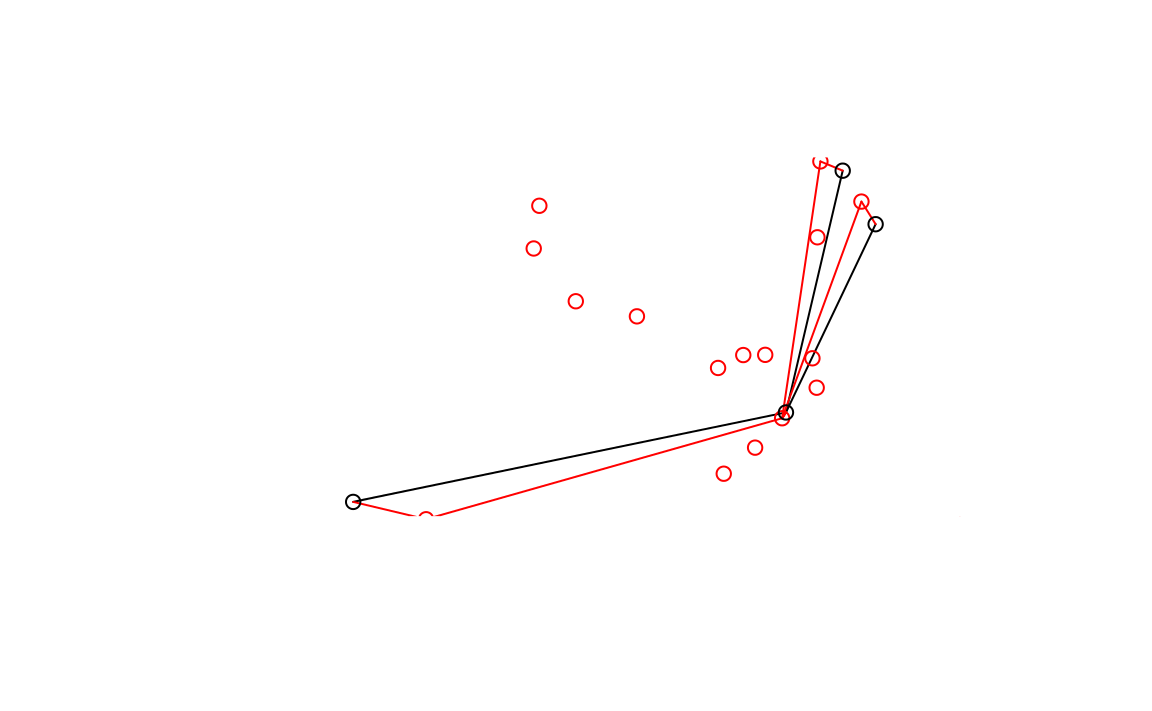
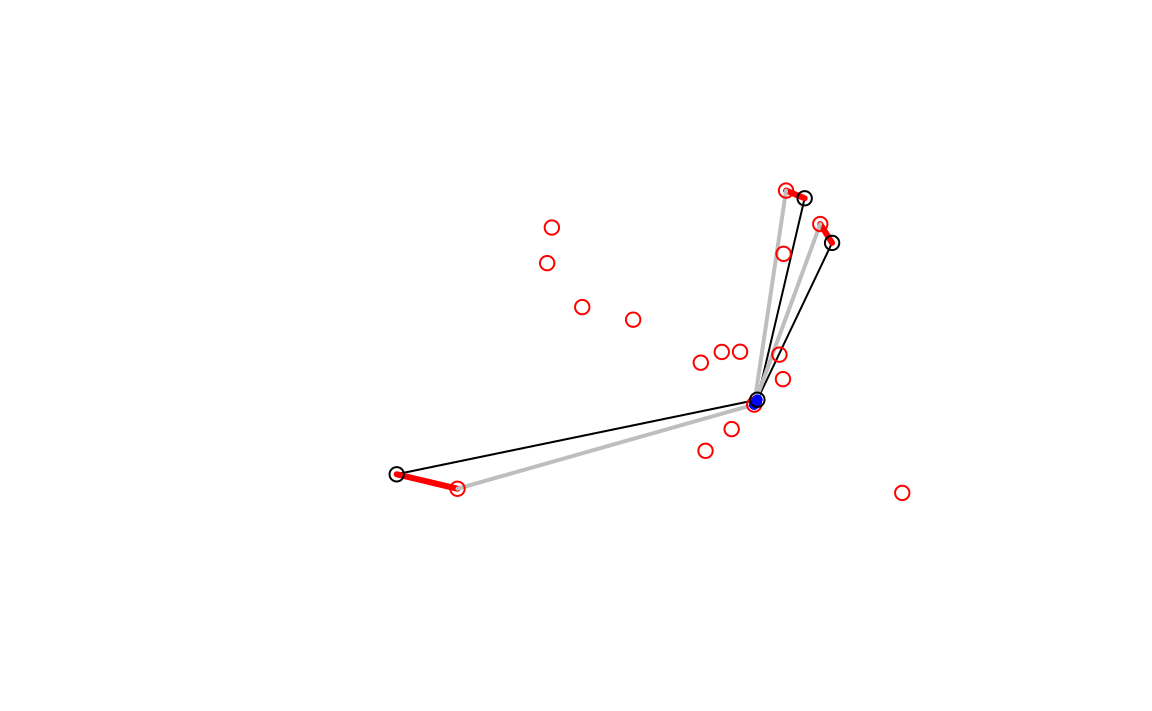
Updating book (2184)

diff --git a/transport.html b/transport.html
@@ -522,37 +522,36 @@ Figure 8.4: Routes along which many (300+) short (&lt;5km Euclidean distance) ca
 <p>Building on the analysis conducted in section <a href="transport.html#desire-lines">8.4</a>, public transport nodes can be used to construct three-part desire lines for trips that can be taken by bus and (the mode used in this example) rail. The first stage is to identify the desire lines with most public transport travel, which in this case can be directly because number of trips by train is a variable in the desire lines (the public transport potential could also be estimated using public transport routing services such as <a href="http://www.opentripplanner.org/">OpenTripPlanner</a>). For clarity of method we’ll select just the top three desire lines in terms of rails use:</p>
 <div class="sourceCode"><pre class="sourceCode r"><code class="sourceCode r">desire_rail =<span class="st"> </span><span class="kw">top_n</span>(desire_lines, <span class="dt">n =</span> <span class="dv">3</span>, <span class="dt">wt =</span> train)</code></pre></div>
 <p>The challenge now is to ‘break-up’ each of these lines into three pieces, representing travel via public transport nodes. This can be done by converting multiline objects in which each feature contains 3 line geometries representing origin, public transport and destination legs of the trip. The first stage is to create matrices of coordinates that will subsequently be used to create matrices representing each leg:</p>
-<div class="sourceCode"><pre class="sourceCode r"><code class="sourceCode r">orig_matrix =<span class="st"> </span><span class="kw">as.matrix</span>(<span class="kw">line2df</span>(desire_rail)[<span class="kw">c</span>(<span class="st">&quot;fx&quot;</span>, <span class="st">&quot;fy&quot;</span>)])
-dest_matrix =<span class="st"> </span><span class="kw">as.matrix</span>(<span class="kw">line2df</span>(desire_rail)[<span class="kw">c</span>(<span class="st">&quot;tx&quot;</span>, <span class="st">&quot;ty&quot;</span>)])
-rail_matrix =<span class="st"> </span><span class="kw">st_coordinates</span>(rail_stations)</code></pre></div>
+<div class="sourceCode"><pre class="sourceCode r"><code class="sourceCode r">mat_orig =<span class="st"> </span><span class="kw">as.matrix</span>(<span class="kw">line2df</span>(desire_rail)[<span class="kw">c</span>(<span class="st">&quot;fx&quot;</span>, <span class="st">&quot;fy&quot;</span>)])
+mat_dest =<span class="st"> </span><span class="kw">as.matrix</span>(<span class="kw">line2df</span>(desire_rail)[<span class="kw">c</span>(<span class="st">&quot;tx&quot;</span>, <span class="st">&quot;ty&quot;</span>)])
+mat_rail =<span class="st"> </span><span class="kw">st_coordinates</span>(rail_stations)</code></pre></div>
 <p>The outputs are three matrices representing the starting points of the trips, their destinations and possible intermediary points at public transport nodes (named <code>orig</code>, <code>dest</code> and <code>rail</code> respectively). But how to identify <em>which</em> intermediary points to use for each desire line? The <code>knn()</code> function from the <strong>nabor</strong> package (which is used internally by <strong>stplanr</strong> so it should already be installed) solves this problem by finding <em>k nearest neighbors</em> between two sets of coordinates. The function can find any number of nearest neighbors by setting the <code>k</code> parameter, in this case to one:</p>
-<div class="sourceCode"><pre class="sourceCode r"><code class="sourceCode r">knn_orig =<span class="st"> </span>nabor::<span class="kw">knn</span>(rail_matrix, <span class="dt">query =</span> orig_matrix, <span class="dt">k =</span> <span class="dv">1</span>)$nn.idx
-knn_dest =<span class="st"> </span>nabor::<span class="kw">knn</span>(rail_matrix, <span class="dt">query =</span> dest_matrix, <span class="dt">k =</span> <span class="dv">1</span>)$nn.idx</code></pre></div>
-<p>This results not in matrices of coordinates, but row indices that can subsequently be used to subset the <code>rail_matrix</code>. It is worth taking a look at the results to ensure that the process has worked properly and explain what has happened:</p>
+<div class="sourceCode"><pre class="sourceCode r"><code class="sourceCode r">knn_orig =<span class="st"> </span>nabor::<span class="kw">knn</span>(mat_rail, <span class="dt">query =</span> mat_orig, <span class="dt">k =</span> <span class="dv">1</span>)$nn.idx
+knn_dest =<span class="st"> </span>nabor::<span class="kw">knn</span>(mat_rail, <span class="dt">query =</span> mat_dest, <span class="dt">k =</span> <span class="dv">1</span>)$nn.idx</code></pre></div>
+<p>This results not in matrices of coordinates, but row indices that can subsequently be used to subset the <code>mat_rail</code>. It is worth taking a look at the results to ensure that the process has worked properly and explain what has happened:</p>
 <div class="sourceCode"><pre class="sourceCode r"><code class="sourceCode r"><span class="kw">as.numeric</span>(knn_orig)
 <span class="co">#&gt; [1] 28  3  2</span>
 <span class="kw">as.numeric</span>(knn_dest)
 <span class="co">#&gt; [1] 30 30 30</span></code></pre></div>
-<p>The output demonstrates that each object contains three whole numbers (the number of rows in <code>desire_rail</code>) representing the rail station closest to the origin and destination of each desire line. Note that while each ‘origin station’ is different, the destination (station <code>30</code>) is the same for all desire lines. This is to be expected because rail travel in cities tends to converge on a single large station (in this case Bristol Temple Meads). The indices can now be used to create matrices representing each leg of the journey as follows:</p>
-<div class="sourceCode"><pre class="sourceCode r"><code class="sourceCode r">leg_orig =<span class="st"> </span><span class="kw">cbind</span>(orig_matrix, rail_matrix[knn_orig, ])
-leg_rail =<span class="st"> </span><span class="kw">cbind</span>(rail_matrix[knn_orig, ], rail_matrix[knn_dest, ])
-leg_dest =<span class="st"> </span><span class="kw">cbind</span>(dest_matrix, rail_matrix[knn_dest, ])</code></pre></div>
+<p>The output demonstrates that each object contains three whole numbers (the number of rows in <code>desire_rail</code>) representing the rail station closest to the origin and destination of each desire line. Note that while each ‘origin station’ is different, the destination (station <code>30</code>) is the same for all desire lines. This is to be expected because rail travel in cities tends to converge on a single large station (in this case Bristol Temple Meads). The indices can now be used to create matrices representing the rail station of origin and destination:</p>
+<div class="sourceCode"><pre class="sourceCode r"><code class="sourceCode r">mat_rail_o =<span class="st"> </span>mat_rail[knn_orig, ]
+mat_rail_d =<span class="st"> </span>mat_rail[knn_dest, ]</code></pre></div>
 <p>The final stage is to convert these matrices into meaningful geographic objects, in this case ‘multilinestrings’ that capture the fact that each stage is a separate line, but part of the same overall trip which can be represented as a simple feature:</p>
 <!-- Would the subsequent code chunck be better as `lapply()` or `map()` command? -->
-<div class="sourceCode"><pre class="sourceCode r"><code class="sourceCode r">multi =<span class="st"> </span><span class="kw">vector</span>(<span class="dt">mode =</span> <span class="st">&quot;list&quot;</span>, <span class="dt">length =</span> <span class="kw">nrow</span>(desire_rail))
-for(i in <span class="dv">1</span>:<span class="kw">nrow</span>(desire_rail)) {
-  multi[[i]] =<span class="st"> </span><span class="kw">st_multilinestring</span>(<span class="kw">list</span>(
-    <span class="kw">rbind</span>(leg_orig[i, <span class="dv">1</span>:<span class="dv">2</span>], leg_orig[i, <span class="dv">3</span>:<span class="dv">4</span>]), 
-    <span class="kw">rbind</span>(leg_rail[i, <span class="dv">1</span>:<span class="dv">2</span>], leg_rail[i, <span class="dv">3</span>:<span class="dv">4</span>]), 
-    <span class="kw">rbind</span>(leg_dest[i, <span class="dv">1</span>:<span class="dv">2</span>], leg_dest[i, <span class="dv">3</span>:<span class="dv">4</span>]) 
-    ))
+<div class="sourceCode"><pre class="sourceCode r"><code class="sourceCode r">mats2line =<span class="st"> </span>function(mat1, mat2) {
+  <span class="kw">lapply</span>(<span class="dv">1</span>:<span class="kw">nrow</span>(mat1), function(i) {
+    <span class="kw">rbind</span>(mat1[i, ], mat2[i, ]) %&gt;%
+<span class="st">    </span><span class="kw">st_linestring</span>()
+  }) %&gt;%<span class="st"> </span><span class="kw">st_sfc</span>()
 }
-legs =<span class="st"> </span><span class="kw">st_sf</span>(<span class="dt">geometry =</span> <span class="kw">st_sfc</span>(multi), <span class="dt">crs =</span> <span class="dv">4326</span>)</code></pre></div>
-<p>Now we are in a position to visualize the results, in Figure <a href="transport.html#fig:stations">8.5</a>: the three initial <code>desire_rail</code> lines have been converted into a new simple features object <code>legs</code> representing travel from home to the origin station, from there to the destination, and finally from the destination station to the destination. In this case the destination leg is very short (walking distance) but the origin legs may be sufficiently far to justify investment in cycling infrastructure to encourage people to cycle to the stations on the outward leg of peoples’ journey to work in the residential areas surrounding the three origin stations in Figure <a href="transport.html#fig:stations">8.5</a>.</p>
+desire_rail$leg_orig =<span class="st"> </span><span class="kw">mats2line</span>(mat_orig, mat_rail_o)
+desire_rail$leg_rail =<span class="st"> </span><span class="kw">mats2line</span>(mat_rail_o, mat_rail_d)
+desire_rail$leg_dest =<span class="st"> </span><span class="kw">mats2line</span>(mat_rail_d, mat_dest)</code></pre></div>
+<p>Now we are in a position to visualize the results, in Figure <a href="transport.html#fig:stations">8.5</a>: the three initial <code>desire_rail</code> lines now have three additional geometry list-columns representing travel from home to the origin station, from there to the destination, and finally from the destination station to the destination. In this case the destination leg is very short (walking distance) but the origin legs may be sufficiently far to justify investment in cycling infrastructure to encourage people to cycle to the stations on the outward leg of peoples’ journey to work in the residential areas surrounding the three origin stations in Figure <a href="transport.html#fig:stations">8.5</a>.</p>
 <div class="figure" style="text-align: center"><span id="fig:stations"></span>
-<img src="figures/stations-1.png" alt="Station nodes (red dots) used as intermediary points that convert straight desire lines with high rail usage (black) into three legs (red)." width="576" />
+<img src="figures/stations-1.png" alt="Station nodes (red dots) used as intermediary points that convert straight desire lines with high rail usage (black) into three legs: to the origin station (red) via public transport (grey) and to the destination (a very short blue line)." width="576" />
 <p class="caption">
-Figure 8.5: Station nodes (red dots) used as intermediary points that convert straight desire lines with high rail usage (black) into three legs (red).
+Figure 8.5: Station nodes (red dots) used as intermediary points that convert straight desire lines with high rail usage (black) into three legs: to the origin station (red) via public transport (grey) and to the destination (a very short blue line).
 </p>
 </div>
 </div>

diff --git a/main.md b/main.md
@@ -256,7 +256,7 @@ leaflet() %>%
 ```
 
 <div class="figure" style="text-align: center">
-preserve34fe0ef02537d392
+preserve2f04baa0e22c799a
 <p class="caption">(\#fig:interactive)World at night imagery from NASA overlaid by the authors' approximate home locations to illustrate interactive mapping with R.</p>
 </div>
 
@@ -3129,7 +3129,7 @@ any(st_touches(cycle_hire, cycle_hire_osm, sparse = FALSE))
 
 
 <div class="figure" style="text-align: center">
-preservec35dd83a38c18ccd
+preserve6f126bd694c6831a
 <p class="caption">(\#fig:cycle-hire)The spatial distribution of cycle hire points in London based on official data (blue) and OpenStreetMap data (red).</p>
 </div>
 
@@ -6114,7 +6114,7 @@ result = sum(reclass)
 For instance, a score greater 9 might be a suitable threshold indicating raster cells where to place a bike shop (Figure \@ref(fig:bikeshop-berlin)).
 
 <div class="figure" style="text-align: center">
-preservece58b5c4d6545b34
+preserve209977025b4662a7
 <p class="caption">(\#fig:bikeshop-berlin)Suitable areas (i.e., raster cells with a score > 9) in accordance with our hypothetical survey for bike stores in Berlin.</p>
 </div>
 
@@ -6582,9 +6582,9 @@ The first stage is to create matrices of coordinates that will subsequently be u
 
 
 ```r
-orig_matrix = as.matrix(line2df(desire_rail)[c("fx", "fy")])
-dest_matrix = as.matrix(line2df(desire_rail)[c("tx", "ty")])
-rail_matrix = st_coordinates(rail_stations)
+mat_orig = as.matrix(line2df(desire_rail)[c("fx", "fy")])
+mat_dest = as.matrix(line2df(desire_rail)[c("tx", "ty")])
+mat_rail = st_coordinates(rail_stations)
 ```
 
 The outputs are three matrices representing the starting points of the trips, their destinations and possible intermediary points at public transport nodes (named `orig`, `dest` and `rail` respectively).
@@ -6594,11 +6594,11 @@ The function can find any number of nearest neighbors by setting the `k` paramet
 
 
 ```r
-knn_orig = nabor::knn(rail_matrix, query = orig_matrix, k = 1)$nn.idx
-knn_dest = nabor::knn(rail_matrix, query = dest_matrix, k = 1)$nn.idx
+knn_orig = nabor::knn(mat_rail, query = mat_orig, k = 1)$nn.idx
+knn_dest = nabor::knn(mat_rail, query = mat_dest, k = 1)$nn.idx
 ```
 
-This results not in matrices of coordinates, but row indices that can subsequently be used to subset the `rail_matrix`.
+This results not in matrices of coordinates, but row indices that can subsequently be used to subset the `mat_rail`.
 It is worth taking a look at the results to ensure that the process has worked properly and explain what has happened:
 
 
@@ -6612,13 +6612,12 @@ as.numeric(knn_dest)
 The output demonstrates that each object contains three whole numbers (the number of rows in `desire_rail`) representing the rail station closest to the origin and destination of each desire line.
 Note that while each 'origin station' is different, the destination (station `30`) is the same for all desire lines.
 This is to be expected because rail travel in cities tends to converge on a single large station (in this case Bristol Temple Meads).
-The indices can now be used to create matrices representing each leg of the journey as follows:
+The indices can now be used to create matrices representing the rail station of origin and destination:
 
 
 ```r
-leg_orig = cbind(orig_matrix, rail_matrix[knn_orig, ])
-leg_rail = cbind(rail_matrix[knn_orig, ], rail_matrix[knn_dest, ])
-leg_dest = cbind(dest_matrix, rail_matrix[knn_dest, ])
+mat_rail_o = mat_rail[knn_orig, ]
+mat_rail_d = mat_rail[knn_dest, ]
 ```
 
 The final stage is to convert these matrices into meaningful geographic objects, in this case 'multilinestrings' that capture the fact that each stage is a separate line, but part of the same overall trip which can be represented as a simple feature:
@@ -6627,27 +6626,25 @@ The final stage is to convert these matrices into meaningful geographic objects,
 
 
 ```r
-multi = vector(mode = "list", length = nrow(desire_rail))
-for(i in 1:nrow(desire_rail)) {
-  multi[[i]] = st_multilinestring(list(
-    rbind(leg_orig[i, 1:2], leg_orig[i, 3:4]), 
-    rbind(leg_rail[i, 1:2], leg_rail[i, 3:4]), 
-    rbind(leg_dest[i, 1:2], leg_dest[i, 3:4]) 
-    ))
+mats2line = function(mat1, mat2) {
+  lapply(1:nrow(mat1), function(i) {
+    rbind(mat1[i, ], mat2[i, ]) %>%
+    st_linestring()
+  }) %>% st_sfc()
 }
-legs = st_sf(geometry = st_sfc(multi), crs = 4326)
+desire_rail$leg_orig = mats2line(mat_orig, mat_rail_o)
+desire_rail$leg_rail = mats2line(mat_rail_o, mat_rail_d)
+desire_rail$leg_dest = mats2line(mat_rail_d, mat_dest)
 ```
 
 Now we are in a position to visualize the results, in Figure \@ref(fig:stations):
-the three initial `desire_rail` lines have been converted into a new simple features object `legs` representing travel from home to the origin station, from there to the destination, and finally from the destination station to the destination.
+the three initial `desire_rail` lines now have three additional geometry list-columns representing travel from home to the origin station, from there to the destination, and finally from the destination station to the destination.
 In this case the destination leg is very short (walking distance) but the origin legs may be sufficiently far to justify investment in cycling infrastructure to encourage people to cycle to the stations on the outward leg of peoples' journey to work in the residential areas surrounding the three origin stations in Figure \@ref(fig:stations).
 
-
 <div class="figure" style="text-align: center">
-<img src="figures/stations-1.png" alt="Station nodes (red dots) used as intermediary points that convert straight desire lines with high rail usage (black) into three legs (red)." width="576" />
-<p class="caption">(\#fig:stations)Station nodes (red dots) used as intermediary points that convert straight desire lines with high rail usage (black) into three legs (red).</p>
+<img src="figures/stations-1.png" alt="Station nodes (red dots) used as intermediary points that convert straight desire lines with high rail usage (black) into three legs: to the origin station (red) via public transport (grey) and to the destination (a very short blue line)." width="576" />
+<p class="caption">(\#fig:stations)Station nodes (red dots) used as intermediary points that convert straight desire lines with high rail usage (black) into three legs: to the origin station (red) via public transport (grey) and to the destination (a very short blue line).</p>
 </div>
-
 
 ## Route networks
 
